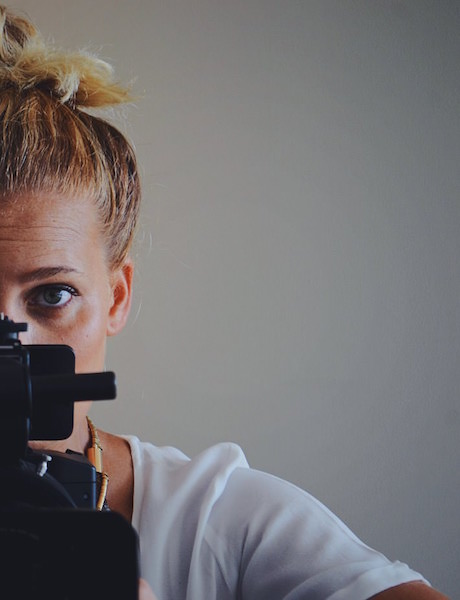
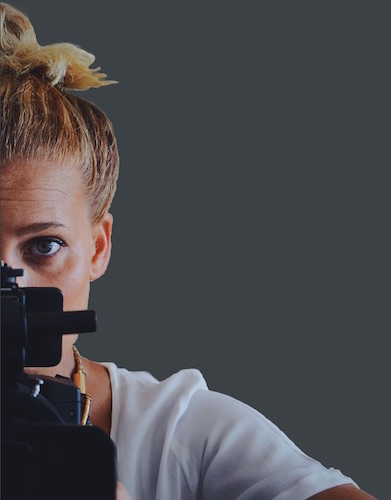
nouvelle version page d'accueil

diff --git a/about.html b/about.html
@@ -10,7 +10,7 @@ permalink: /about/
         </div>
         <div class="col-lg-6">
 			<h4>A propos d'Elite Production</h4>
-			<p>Elite production est une société de production audiovisuelle basée en Martinique qui propose des reportages multi-formats pour les chaines de télévisions, les institutions ou les entreprises. Elite Production est née de l'association de 2 soeurs. Passionnée d'image pour l'une et d'investigation pour l'autre, Angelique et Alexandra Elizé proposent à travers Elite Production réactivité, rigueur et enthousiasme.</p>
+			<p>Elite production est une société de production audiovisuelle basée entre la Martinique et Paris qui propose des reportages multi-formats pour les chaines de télévisions, les institutions ou les entreprises. Elite Production est née de l'association de 2 soeurs. Passionnée d'image pour l'une et d'investigation pour l'autre, Angelique et Alexandra Elizé proposent à travers Elite Production réactivité, rigueur et enthousiasme.</p>
 			<p><br/><a href="/contact/" class="btn btn-theme">Contactez-nous</a></p>
         </div>
     </div><! --/row -->

diff --git a/_includes/header.html b/_includes/header.html
@@ -1,15 +1,13 @@
-<div id="headerwrap">
-    <div class="container">
-        <div class="row">
-            <div class="col-lg-8 col-lg-offset-2">
-				<blockquote>
-				  <h1>&ldquo; Une image vaut mille mots. &rdquo;</h1>
+<div class="container-fluid bggrey">
+	<div class="row">
+		<div class="col-xs-3 paddingtop">
+			<img class="img-responsive" src="/assets/img/front.jpg" alt="Elite Production"> 
+		</div>
+		<div class="col-xs-9  col-md-7 col-lg-6 centered">
+			<blockquote id="home">
+				  <h1>Une image vaut mille mots</h1>
 				  <footer>Confucius</footer>
-				</blockquote>
-            </div>
-			<div class="col-lg-8 col-lg-offset-2 himg">
-                <img src="{{ "/assets/img/front.jpg" | prepend: site.baseurl }}" class="img-responsive" alt="Une image vaut mille mots">
-            </div>
-        </div><!-- /row -->
-    </div> <!-- /container -->
-</div><!-- /headerwrap -->
+			</blockquote>
+		</div>
+	</div>
+</div>
